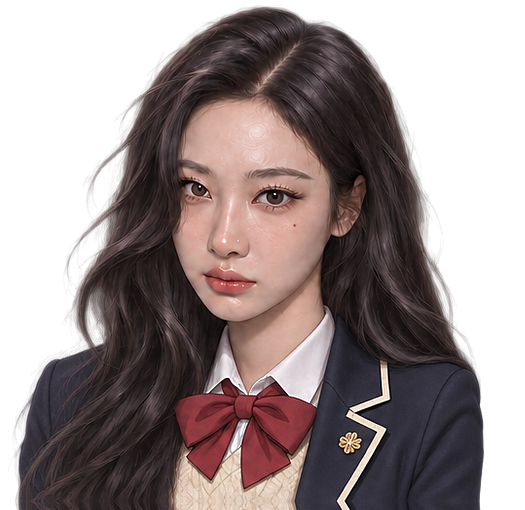
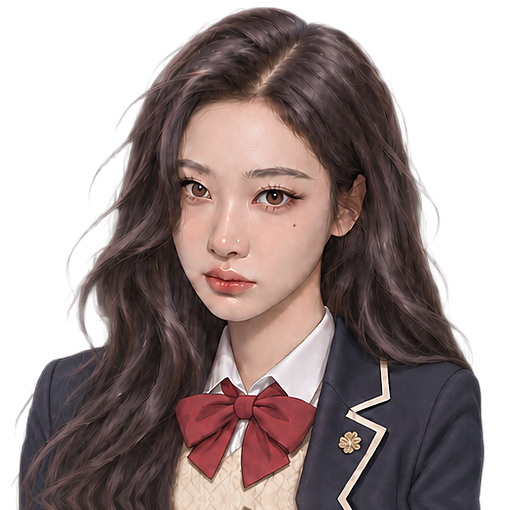
Solar's HOAX faces: Kat's improved casual, school and party sheets, same placement

diff --git a/femc-game.html b/femc-game.html
@@ -37,7 +37,7 @@
   <!-- Art indexes, and the battle game's data, rules and save shape (the field menu reads levels, Personas and gear through
        them; the fights themselves run in femc-battle.html?embed=1 inside this page). -->
   <script src="assets/femc/portraits/index.js?v=157"></script>
-  <script src="assets/femc/portraits/scale.js?v=173"></script>
+  <script src="assets/femc/portraits/scale.js?v=174"></script>
   <script src="assets/femc/portraits/place.js?v=7"></script>
   <script src="assets/femc/tarot/index.js?v=132"></script>
   <script src="assets/femc/battle/data.js?v=41"></script>

diff --git a/assets/femc/portraits/scale.js b/assets/femc/portraits/scale.js
@@ -296,4 +296,4 @@ window.FEMC_PORTRAIT_SCALE = {
 window.FEMC_PORTRAIT_DROP = { fuuka: 0.08, jaemin: 0.08, chenle: 0.14 }; // jungwon's 0.1 was for the old set (batch 51)
 
 /* Bump when portrait images change, so browsers fetch the new faces. */
-window.FEMC_PORTRAIT_V = 32;
+window.FEMC_PORTRAIT_V = 33;

diff --git a/CLAUDE.md b/CLAUDE.md
@@ -180,6 +180,7 @@ Kat approved lighter art batches: aim for 4–6 images, check mappings/loading a
 **Art batch 144 (Nov 7; 40 New Adds backgrounds, EPILOGUE-BACKGROUND-PROMPTS.md):** all of HOAX H1-H19 and strangers S1-S22 but S14 (sunroom) as `assets/femc/bg/<name>.webp` q86 native; Kat's `epi-s-annex-night.png` = `epi-s-annex` (S10). Batch 143's files she also dropped in New Adds match by sha256, untouched. New names wired: hoax/world.js Yeobo's → `epi-h-yeobos` / `-night` (both Yeobo's activities too; `yeobos-cafe` stays for the main game), park / council room evening slots, School → `epi-h-hallway` / `-night` (+ `school.bg`; `flashback-hamlim-hallway` stays for links / Stay); strangers/world.js kitchen day `epi-s-lee-kitchen-day` (its before-light / midnight lines carry `bg: 'epi-s-lee-kitchen'`: people-crew 4:30 paper, story-w1 x2, story-w3, story-end), gate night `epi-s-gate-night`, plain Lee House → `epi-s-front-room` both slots (+ piano activity; story-end's koi back-step line → `epi-s-garden-day`), Lee House at Midnight → `epi-s-stairs-night` (its one scene is the landing), harbor / fish market midnight → the new night pictures (weatherFx.outdoor). Place Prompt Attachments BG copies refreshed (16; old ones in `Old/` "(before batch 144)"). DATA_V 68, epilogue v72.
 **Art batch 145 (Nov 7; 10 New Adds files):** HOAX 36D-F, 36I-K CGs (`{ cg }` pairs as FEMC-ART-WIRING said; the party one sits inside `R.partyMingle`, so all three party routes show it; cgFocus, `ALBUM.hoax`), 36G `epi-h-jihoon-car` (both slots, sealed) and 36H `epi-h-yeobos-back` (outdoor). Nana's faces (38A) → `Character Portraits/Nana-HOAX/` → `femc-portraits.py nana-hoax` (SAME_SCALE), scale.js 1.12, placements (face [0.985, 0.5], Kat nudge {s 0.95, m 1}), hoax/world.js `faces.nana`; no `s: 'nana'` lines exist yet. Nana's booth poses (38B, Kat's name `nana-booth-poses.png`) cut to `booth/nana-0..5.webp`, unused until 38C and the HOAX booth. `CG - Nana (HOAX).png` attachment = his new neutral. DATA_V 69, epilogue v73, places v72, portraits index v157, scale v172, place v6.
 **Art batch 146 (Nov 7; New Adds):** HD poses for The Moon / The Star / The Lovers / Black Rose (`femc-hd-poses.py` LOOKS gained Kat's folders `The Moon Poses/` `moon-`, `The Star Poses/` `star-`, `The Lovers Poses/` `lovers-`, `Black Rose Poses/` `rose-`; 18 each); polaroids 39A, C-I (Kat's `polaroid-snow-way.png` = hoax-snow-way: the tool ran on a scratch copy with the right name); Solar's HOAX booth sheet 38C → `booth/solar-hoax-0..5` (the HOAX booth itself is still to build). Kat's three `improved-*` HOAX face sheets went back to `WIP/` at her ask (she's Photoshopping them). ready.js v43, booth/index v3, polaroids/index v3.
+**Solar's improved HOAX faces (Nov 7):** Kat's `WIP/improved-solar-hoax.png`, `improved-solar-hoax-school.png`, `improved-party-hoax-solar.png` (same drawings as batch 143's, retouched; template match 1.00 scale) re-cut with `tools/femc-hoax-solar-recut.py <sheet> <dir> 0.958 | 0.974 | 1.574` onto the same canvases (alpha IoU 0.98-0.99, so placement unchanged). Kat may still Photoshop them: re-run the same three commands on her new files. Attachment copies refreshed (old in `Old/`). FEMC_PORTRAIT_V 33, scale.js v174.
 **Fitting room couple partner (Nov 7, Kat: the partner's scene face had no shoulders, was too zoomed in and covered Solar's outfit):** fitting.js `partner()` shows the mate's HD pose (victory → peace → thumbsup → arms-crossed → wave, else the set's first) at Solar's hip-up scale × 0.94, head placed from the set's fig.json, centred ~20% in from the right edge, behind Solar; the name bubble sits low on the right; lean softened (-1.5°). No HD set → the outfit's battle frame as before. All six couple mates have HD sets. fitting.js v2. Unverified in a browser (laptop: light checks only).
 **Everything visible from the start (Nov 7, Kat: "all of the outfits in the game should be visible from the beginning of the game, you just can't GET some of them yet").** cosmetics.js (comment above `featShow`): pulls are unchanged (`pool`, `featOf`, `banners()` = the month's banners, met fighters only). Shown: the Wardrobe lists every non-retired look of every fighter (`visible`), the meter counts every ready outfit, the note under a look says how to get it (`gettable`: art coming / capsule / meet <name> first / featured now on <banner> / any time, featured on <banner> in <month>); the Boutique lists every banner (`allBans`: running first, then by `nextRun` in game order April → March; `.soon` tabs say Opens in <month> / Ran in <month> / Nothing you can pull yet), a non-running one is viewable (`viewBan`) with Pull ×1 / ×10 disabled and adopted as the pick once its month comes; featured strips show unmet fighters' looks dimmed with a lock (`li.unmet`), the hero plate says "Meet <name> to pull it". fitting.js partner no longer needs the mate met. cosmetics v50, boutique.css v3, fitting v3. Smoke-rendered in jsc with stubs (17 banner tabs, 14 soon); not browser-tested; tests/femc_cosmetics.py probably expects the old met-only Wardrobe and running-only tabs: update on the PC.
 **Seasonal outfits setting (Nov 7, Kat: keep it on by default, some players might not want it):** core.js DEFAULTS `seasonLook: true`; Settings → Story → Seasonal outfits (ui.js settingRows, after Date card); ui.js `homeLook` uses `HOME_SEASON` only while it's on (Default / no outfit then shows her own look all year). core v88, ui v77.
